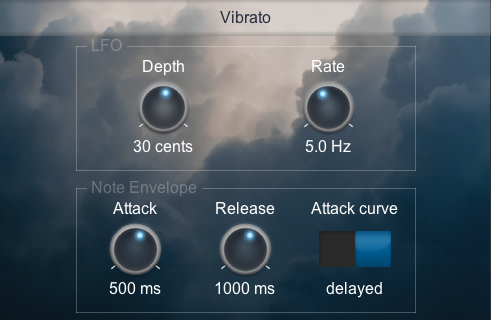
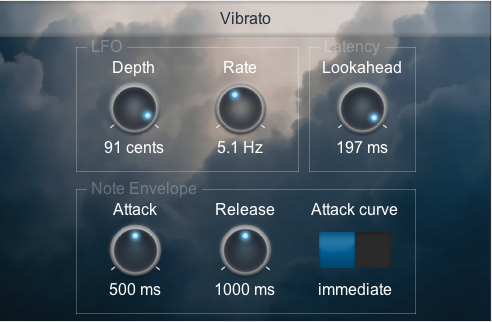
Vibrato: Update screenshot and description

diff --git a/index.html b/index.html
@@ -325,6 +325,7 @@ h3 {
 <p>This effect it adds vibrato, using MIDI notes to produce a more natural envelope (compared to a constant LFO).  Each note resets the vibrato to zero, and it is slowly introduced.</p>
 <p>This is most useful for adding vibrato to synths that don&#39;t have already have it - for example, <a href="audio-demos/Vibrato-ReaSynth.mp3">ReaSynth</a>.</p>
 <p><img src="doc/images/Vibrato.png" alt="screenshot"></p>
+<p>The &quot;Lookahead&quot; dial controls how much latency is added.  With this at 0, sometimes the start of a note can sometimes be momentarily detuned because of ongoing vibrato.  To prevent this completely, turn the dial to its maximum value (which scales according to the LFO Rate value).</p>
 <p><em>(background by Tom Barrett on <a href="https://unsplash.com/photos/-bSucp2nUdQ">Unsplash</a>)</em></p>
 </div>
 <div class="reapack-package" id="Warble"><div class="reapack-links"><audio controls preload="none" src="audio-demos/warble-formant-mod.mp3"></audio><audio controls preload="none" src="audio-demos/warble-original.mp3"></audio><audio controls preload="none" src="audio-demos/warble-shifted.mp3"></audio><audio controls preload="none" src="audio-demos/warble-subtle.mp3"></audio></div><h1 id="warble">Warble</h1>

diff --git a/doc/Vibrato.md b/doc/Vibrato.md
@@ -6,4 +6,6 @@ This is most useful for adding vibrato to synths that don't have already have it
 
 ![screenshot](images/Vibrato.png)
 
+The "Lookahead" dial controls how much latency is added.  With this at 0, sometimes the start of a note can sometimes be momentarily detuned because of ongoing vibrato.  To prevent this completely, turn the dial to its maximum value (which scales according to the LFO Rate value).
+
 _(background by Tom Barrett on [Unsplash](https://unsplash.com/photos/-bSucp2nUdQ))_
